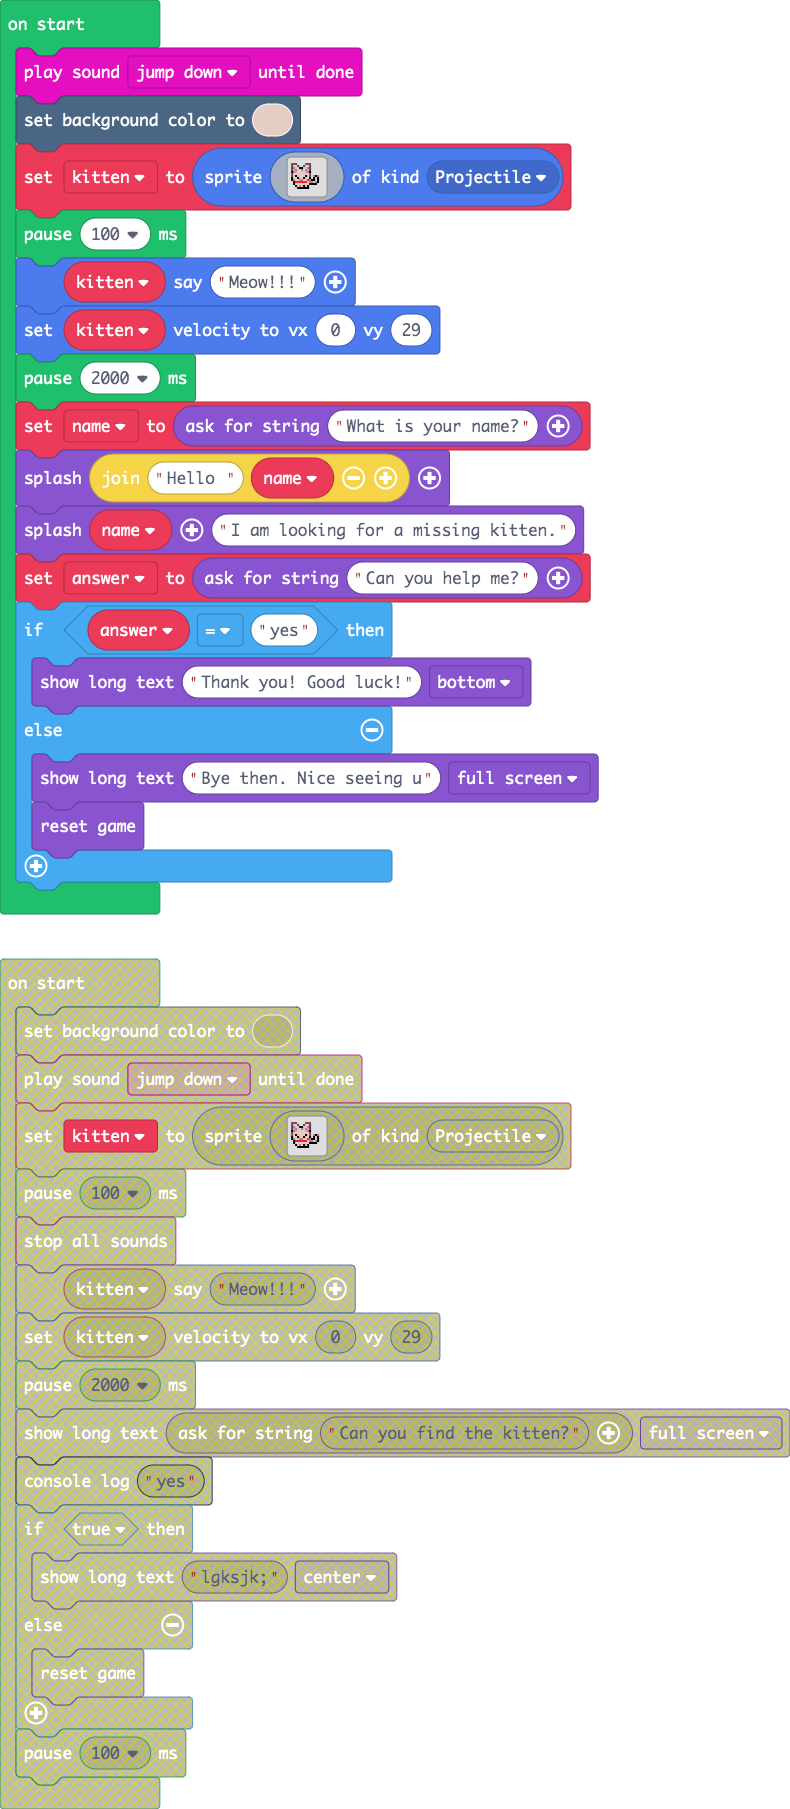
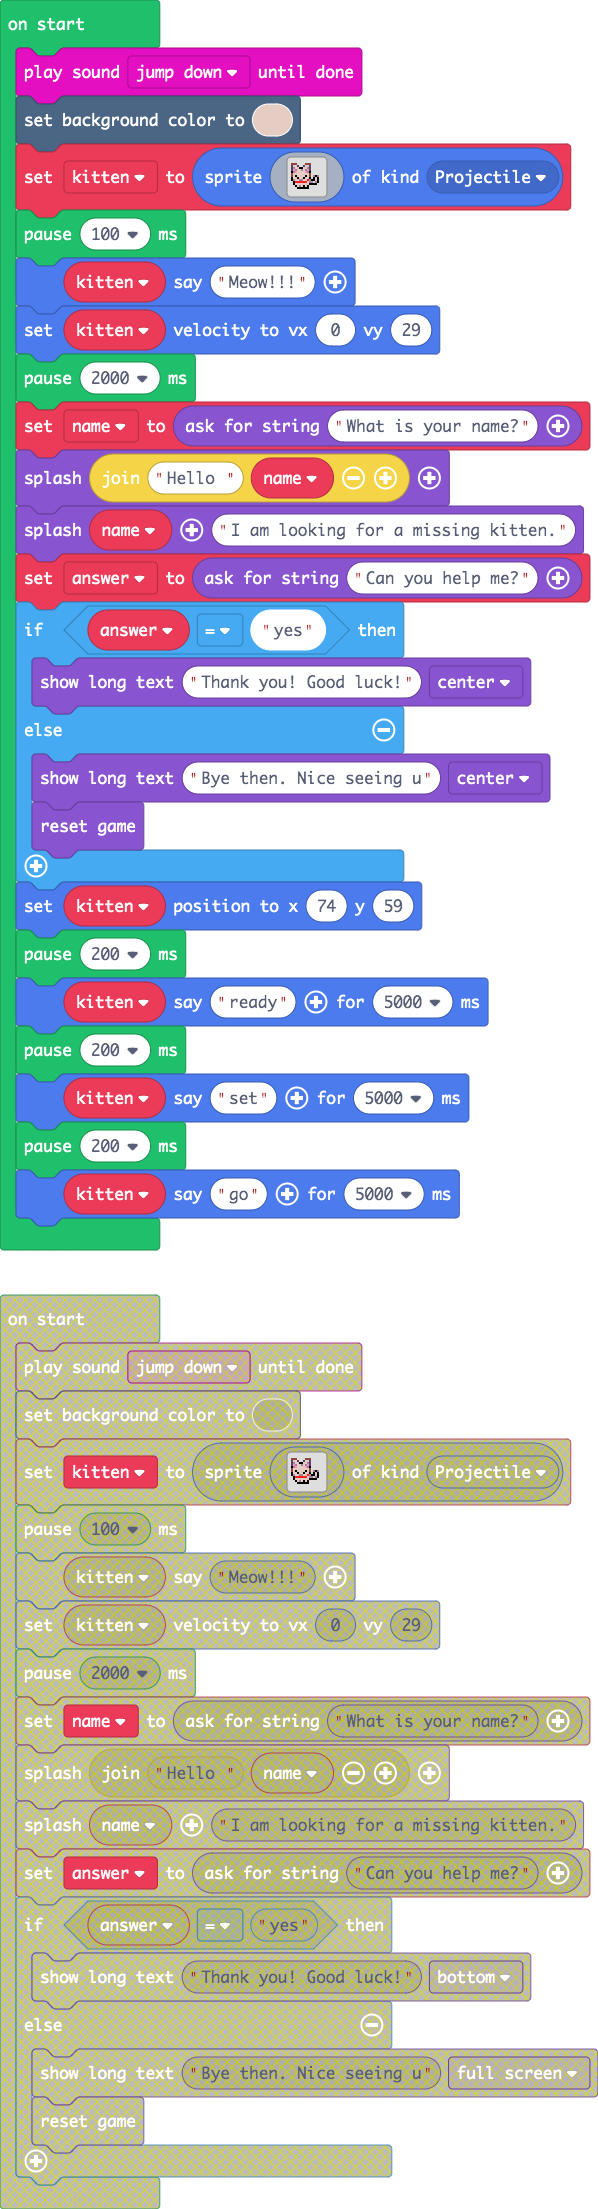
Update pxt.json, main.blocks, main.ts

diff --git a/main.ts b/main.ts
@@ -1,22 +1,27 @@
+enum ActionKind {
+    Walking,
+    Idle,
+    Jumping
+}
 music.jumpDown.playUntilDone()
 scene.setBackgroundColor(13)
 let kitten = sprites.create(img`
-. . . . . . . . . . . . . . . . 
-e e e . . . . e e e . . . . . . 
-c d d c . . c d d c . . . . . . 
-c b d d f f d d b c . . . . . . 
-c 3 b d d b d b 3 c . . . . . . 
-f b 3 d d d d 3 b f . . . . . . 
-e d d d d d d d d e . . . . . . 
-e d f d d d d f d e . b f b . . 
-f d d f d d f d d f . f d f . . 
-f b d d b b d d 2 b f f d f . . 
-. f 2 2 2 2 2 2 d b b d b f . . 
-. f d d d d d d d f f f f . . . 
-. . f d b d f d f . . . . . . . 
-. . . f f f f f f . . . . . . . 
-. . . . . . . . . . . . . . . . 
-. . . . . . . . . . . . . . . . 
+    . . . . . . . . . . . . . . . .
+    e e e . . . . e e e . . . . . .
+    c d d c . . c d d c . . . . . .
+    c b d d f f d d b c . . . . . .
+    c 3 b d d b d b 3 c . . . . . .
+    f b 3 d d d d 3 b f . . . . . .
+    e d d d d d d d d e . . . . . .
+    e d f d d d d f d e . b f b . .
+    f d d f d d f d d f . f d f . .
+    f b d d b b d d 2 b f f d f . .
+    . f 2 2 2 2 2 2 d b b d b f . .
+    . f d d d d d d d f f f f . . .
+    . . f d b d f d f . . . . . . .
+    . . . f f f f f f . . . . . . .
+    . . . . . . . . . . . . . . . .
+    . . . . . . . . . . . . . . . .
 `, SpriteKind.Projectile)
 pause(100)
 kitten.say("Meow!!!")
@@ -27,8 +32,15 @@ game.splash("Hello " + name)
 game.splash(name, "I am looking for a missing kitten.")
 let answer = game.askForString("Can you help me?")
 if (answer == "yes") {
-    game.showLongText("Thank you! Good luck!", DialogLayout.Bottom)
+    game.showLongText("Thank you! Good luck!", DialogLayout.Center)
 } else {
-    game.showLongText("Bye then. Nice seeing u", DialogLayout.Full)
+    game.showLongText("Bye then. Nice seeing u", DialogLayout.Center)
     game.reset()
 }
+kitten.setPosition(74, 59)
+pause(200)
+kitten.say("ready", 5000)
+pause(200)
+kitten.say("set", 5000)
+pause(200)
+kitten.say("go", 5000)
